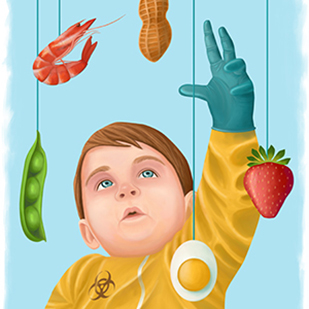
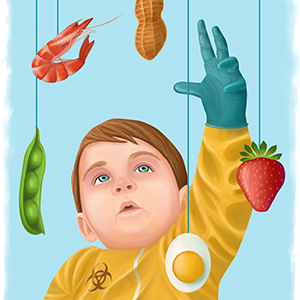
Revert "Resize thumbnails"
This reverts commit 1072ecf8738ba0f3d8d60c90b124d2f4924c2be8.

diff --git a/styles.css b/styles.css
@@ -158,7 +158,7 @@ nav li { padding-left: 5%; float: right; }
 }
 
 .gallery li img {
-  max-width: 97%;
+  max-width: 90%;
   height: auto;
   box-shadow: 0 3px 15px -6px #777;
   transition: transform .3s ease-in-out;
